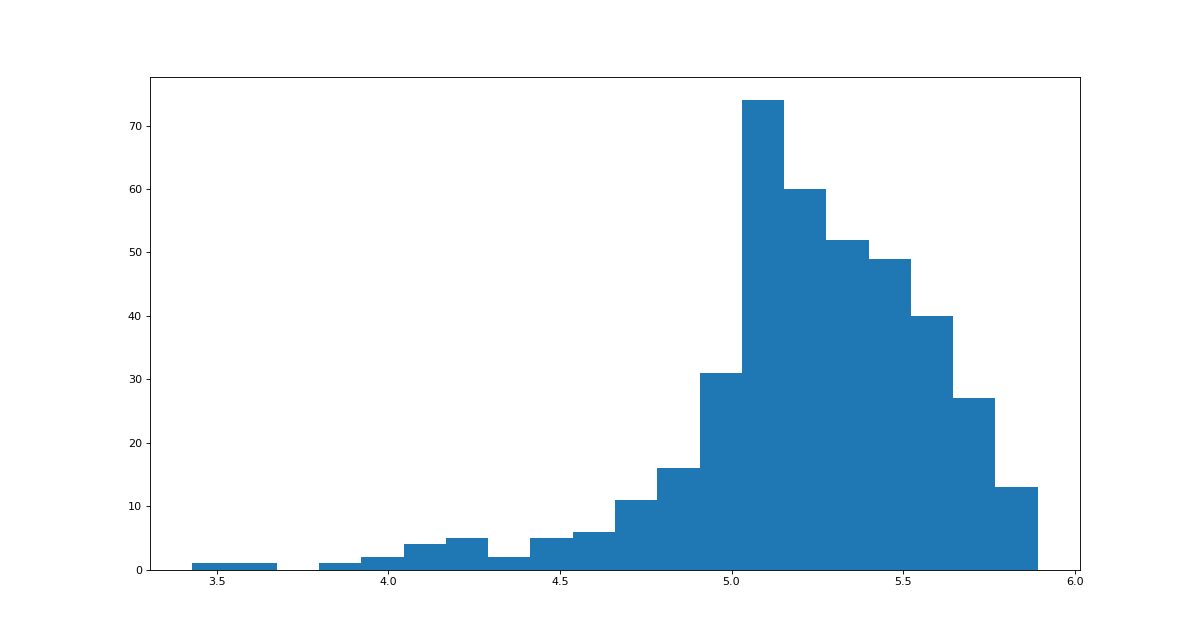
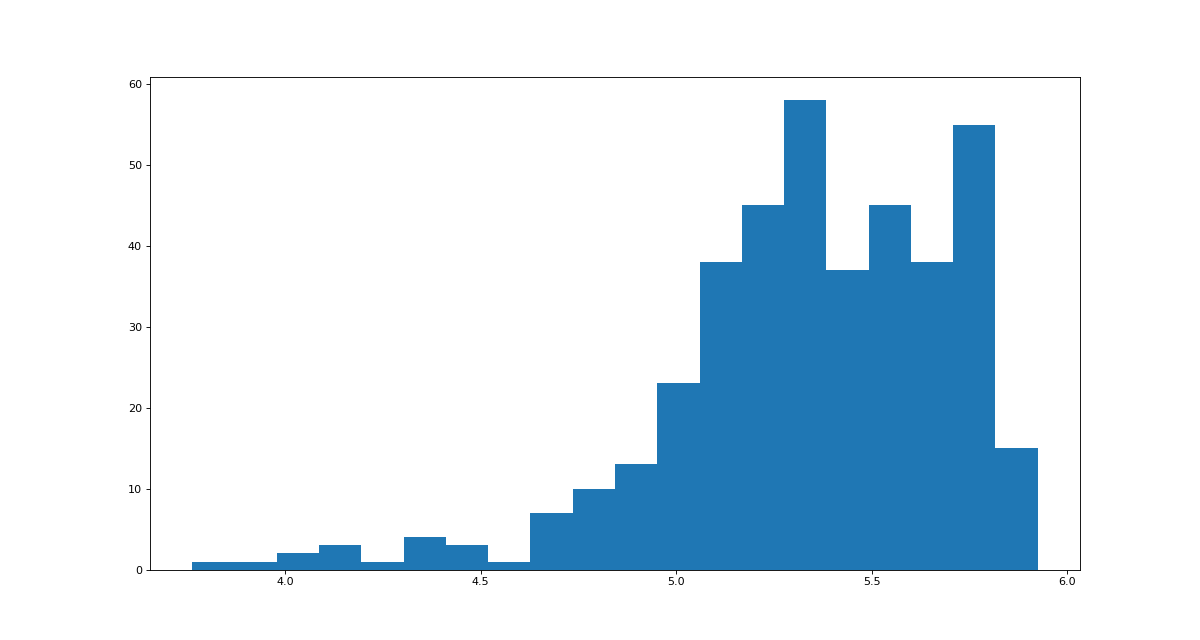
Added set of constant attitudes.
+ Added function for creating a set of constant quaternions from a single value between 0-1.

+ Added function for calculating a set of constant attitudes.

diff --git a/Power_SIM_2024/main.py b/Power_SIM_2024/main.py
@@ -5,11 +5,14 @@ import time
 import orbit 
 import attitude as att
 
-theta_vals = np.linspace(0, 720, 200)
+
+plt_dir = "./Plots/"
 
 ###########################################################################
 # ORBITAL STUFF ###########################################################
 ###########################################################################
+
+theta_vals = np.linspace(0, 720, 200)
 
 semi_major = 6700 #Semi major axis [km]
 ecc = 0.05 #Eccentricity
@@ -27,38 +30,34 @@ for i in range(np.shape(radii)[1]):
     eclipse[i] = orbit.eclypseCheck(radii[:,i], earth_rad)
 
 
-
 ###########################################################################
 # POWER GENERATION STUFF ##################################################
 ###########################################################################
-
-# Generates a set of evenly spaced out vectors on a unit sphere.
-rot_vector_array = att.fibonacci_sphere(samples= 400)
-
-# Verification array. 
-# rot_vector_array = [[1,0,0],[0,1,0],[0,0,1]]
-
 # Creates solar array distribution: [+X, -X, +Y, -Y, +Z, -Z] W
 solar_cell = 1.08 # [Watt]
 solar_array = [4*solar_cell, 4*solar_cell, 4*solar_cell, 4*solar_cell,
                2*solar_cell, 2*solar_cell]
 
-# Initializes the attitude of the satellite with its vehicle X-axis pointing 
-# towards the sun.
-initial_att_1 = np.array([[1,0,0],[0,1,0],[0,0,1]])
-initial_att_2 = np.array([[0,1,0],[1,0,0],[0,0,1]])
-initial_att_3 = np.array([[0,0,1],[0,1,0],[1,0,0]])
-
-initial_atts = [initial_att_1, initial_att_2, initial_att_3]
-
-# Initializes empty vector to store power values.
-power_library = []
-
-# Generates random array of rotation angles. 
-angle_array = np.random.uniform(low=0, high=360, size=100) * (np.pi/180)
-att_indx = 0
 
 if old_method := False:
+    # Generates a set of evenly spaced out vectors on a unit sphere.
+    rot_vector_array = att.fibonacci_sphere(samples= 400)
+
+    # Initializes the attitude of the satellite with its vehicle X-axis pointing 
+    # towards the sun.
+    initial_att_1 = np.array([[1,0,0],[0,1,0],[0,0,1]])
+    initial_att_2 = np.array([[0,1,0],[1,0,0],[0,0,1]])
+    initial_att_3 = np.array([[0,0,1],[0,1,0],[1,0,0]])
+
+    initial_atts = [initial_att_1, initial_att_2, initial_att_3]
+
+    # Initializes empty vector to store power values.
+    power_library = []
+
+    # Generates random array of rotation angles. 
+    angle_array = np.random.uniform(low=0, high=360, size=100) * (np.pi/180)
+    att_indx = 0
+
     for initial_att in initial_atts:
 
         new_attitude = initial_att
@@ -122,15 +121,38 @@ if new_method := True:
     # Generate random set of atttiudes. 
     num_attitudes = 2000
     random_atts = att.generate_random_attitudes(num_attitudes)
+    set_atts = att.generate_set_attitudes(num_attitudes)
 
-    powers = np.empty(0)
+    # Initializes empty power vector.
+    powers_rand = np.empty(0)
+    powers_set = np.empty(0)
 
-    for attittude in random_atts:
+    for att_index in range(num_attitudes):
         # Calculate power produced in each attitude. 
-        powers = np.append(powers, att.power_output(attittude, solar_array))
+        powers_rand = np.append(powers_rand, att.power_output(
+            random_atts[att_index], solar_array))
+        powers_set = np.append(powers_set, att.power_output(
+            set_atts[att_index], solar_array))
 
-    # Returns average power. 
-    print(f"Average power: {np.average(powers)} W.")
+
+    # Returns average powers. 
+    print(f"Average power (random): {np.average(powers_rand)} W.")
+    print(f"Average power (set): {np.average(powers_set)} W.")
+
+    # Plots histogram of power values.  
+    fig = plt.figure(figsize=(15,8), dpi=80)
+
+    ax = fig.add_subplot(2, 1, 1)
+    ax.hist(powers_rand, bins= 40)
+
+    ax = fig.add_subplot(2, 1, 2)
+    ax.hist(powers_set, bins= 40)
+
+    plt.show()
+
+
+
+    
 
 
 # TODO: Add some statistics in here to get a deviation and all that other

diff --git a/Power_SIM_2024/attitude.py b/Power_SIM_2024/attitude.py
@@ -29,6 +29,16 @@ def random_quaternion():
     return np.array([q0, q1, q2, q3])
 
 
+def set_quaternion(quaternion_val):
+    """Generate a set unit quaternion."""
+    u1, u2, u3 = np.ones(3)*quaternion_val
+    q0 = np.sqrt(1 - u1) * np.sin(2 * np.pi * u2)
+    q1 = np.sqrt(1 - u1) * np.cos(2 * np.pi * u2)
+    q2 = np.sqrt(u1) * np.sin(2 * np.pi * u3)
+    q3 = np.sqrt(u1) * np.cos(2 * np.pi * u3)
+    return np.array([q0, q1, q2, q3])
+
+
 def quaternion_to_rotation_matrix(q):
     """Convert a quaternion to a 3x3 rotation matrix."""
     q0, q1, q2, q3 = q
@@ -44,6 +54,16 @@ def generate_random_attitudes(num_attitudes):
     attitudes = []
     for _ in range(num_attitudes):
         q = random_quaternion()
+        R = quaternion_to_rotation_matrix(q)
+        attitudes.append(R)
+    return attitudes
+
+
+def generate_set_attitudes(num_attitudes):
+    """Generate a list of random satellite attitudes."""
+    attitudes = []
+    for quaternion_val in np.linspace(0,1,num_attitudes):
+        q = set_quaternion(quaternion_val)
         R = quaternion_to_rotation_matrix(q)
         attitudes.append(R)
     return attitudes
